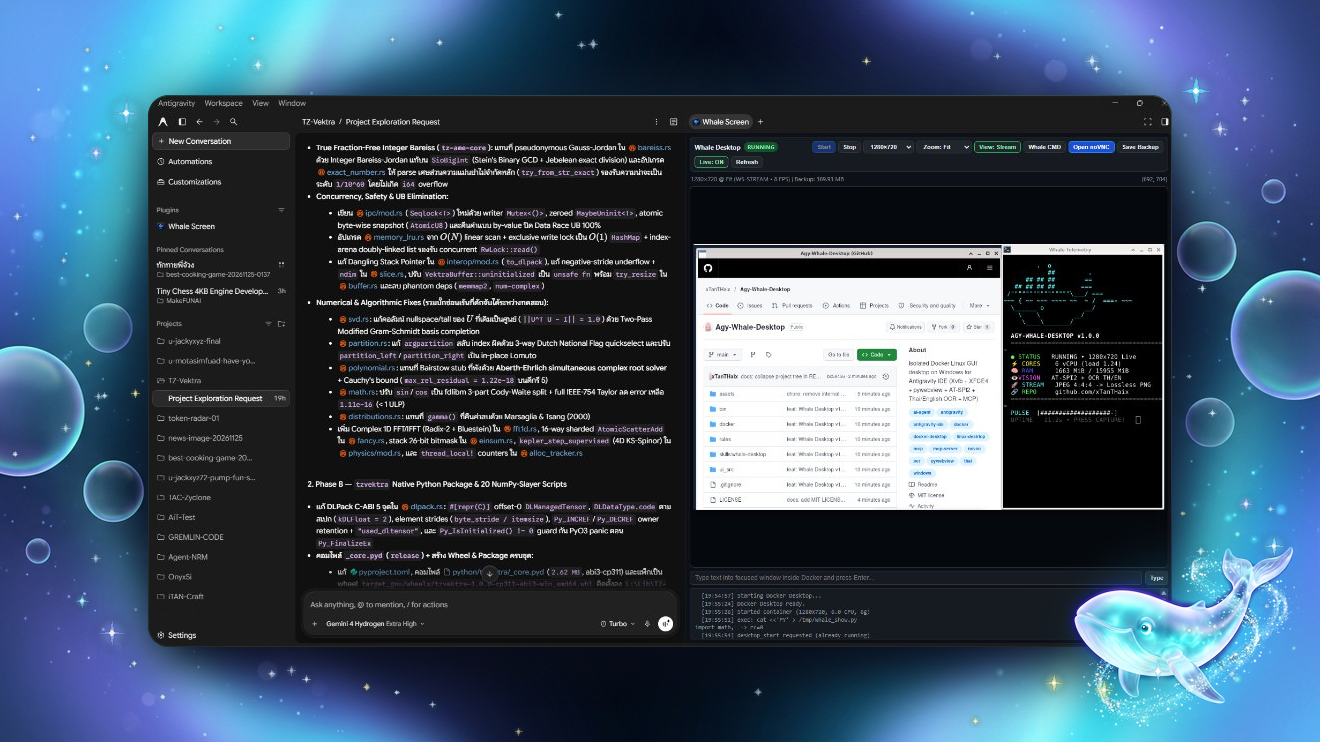
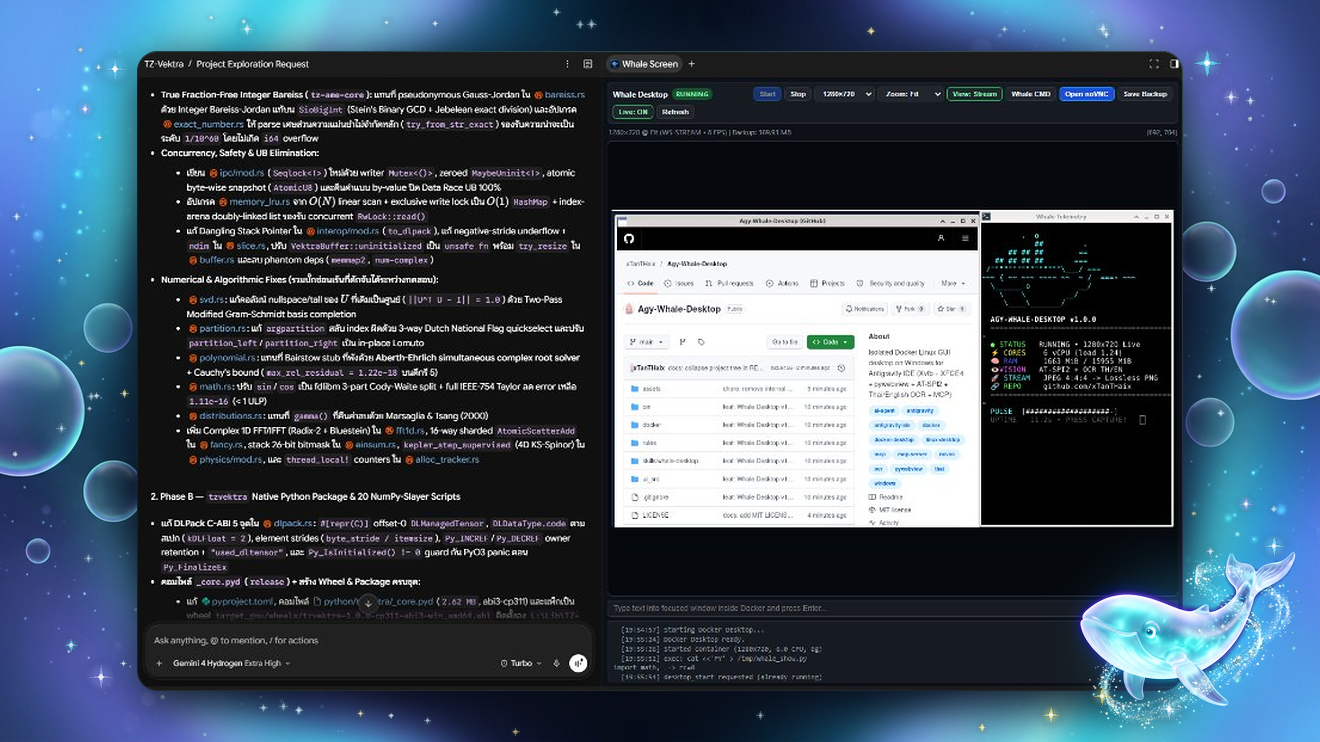
docs(readme): enlarge sidebar-free showcase image and keep caption free of IDE

diff --git a/README.md b/README.md
@@ -29,8 +29,8 @@
 <br />
 
 <div align="center">
-  <img src="assets/antigravity_showcase.png" alt="Whale Desktop running inside Antigravity IDE" width="92%" />
-  <p><i>ภาพตัวอย่างการใช้งานจริงใน Antigravity : แชตโปรเจกต์หลักฝั่งซ้ายทำงานคู่กับแผง Whale Screen (WS-STREAM + Chromium + Whale Telemetry) ทางฝั่งขวา</i></p>
+  <img src="assets/antigravity_showcase.png" alt="Whale Desktop running inside Antigravity" width="92%" />
+  <p><i>ภาพตัวอย่างการใช้งานจริงใน Antigravity: แชตโปรเจกต์ฝั่งซ้ายทำงานคู่กับแผง Whale Screen (WS-STREAM + Chromium + Whale Telemetry) ทางฝั่งขวา</i></p>
 </div>
 
 ---
